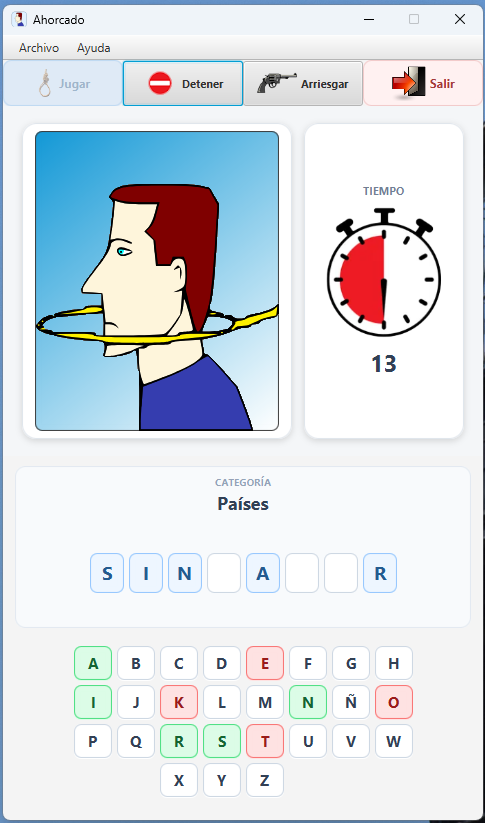
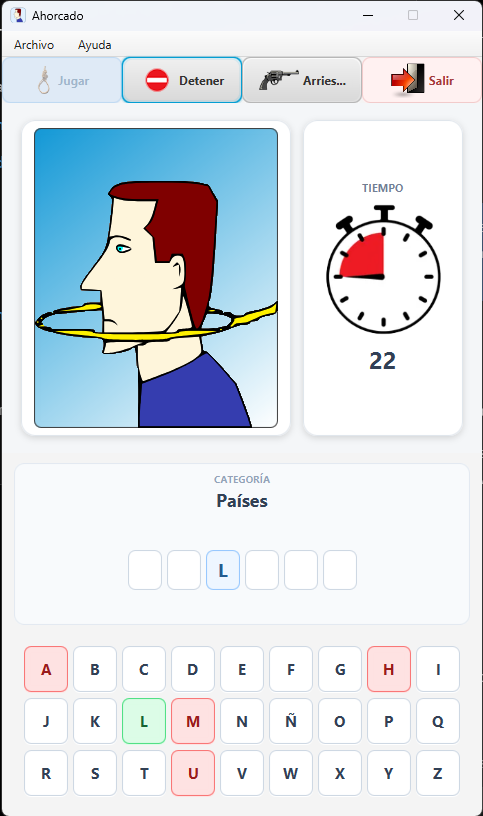
Actualización de github pages
Actualización de la página del producto

diff --git a/docs/index.html b/docs/index.html
@@ -3,7 +3,7 @@
 <head>
   <meta charset="utf-8">
   <meta name="viewport" content="width=device-width, initial-scale=1">
-  <meta name="description" content="Ahorcado 1.0.1: el clásico juego de palabras para Windows y Linux. Más de 500 palabras, cuatro categorías, tiempo configurable y funcionamiento offline.">
+  <meta name="description" content="Ahorcado: el clásico juego de palabras para Windows y Linux. Más de 500 palabras, cuatro categorías, tiempo configurable, interfaz adaptable y funcionamiento offline.">
   <meta name="theme-color" content="#0f172a">
   <title>Ahorcado — Juego para Windows y Linux</title>
   <link rel="icon" type="image/png" href="app-icon.png">
@@ -20,6 +20,7 @@
     <nav aria-label="Navegación principal">
       <a href="#caracteristicas">Características</a>
       <a href="#capturas">Capturas</a>
+      <a href="#instalacion">Instalación</a>
       <a href="#requisitos">Requisitos</a>
       <a id="nav-source" href="#" target="_blank" rel="noopener">Código</a>
     </nav>
@@ -28,13 +29,13 @@
   <main>
     <section class="hero" id="inicio">
       <div class="hero-copy">
-        <div class="eyebrow">VERSIÓN 1.0.1 · WINDOWS + LINUX</div>
+        <div class="eyebrow">WINDOWS + LINUX · VERSIÓN 1.0.1</div>
         <h1>El clásico Ahorcado,<br><span>renovado para escritorio.</span></h1>
 
         <p class="hero-lead">
-          Más de 500 palabras y nombres, cuatro categorías, tiempo configurable,
-          sonidos y animaciones. Todo en una aplicación simple que funciona
-          completamente offline.
+          Más de 500 palabras y nombres, cuatro categorías, partidas contra reloj,
+          sonidos y animaciones en una interfaz que se adapta automáticamente a tu pantalla.
+          Todo funciona completamente offline.
         </p>
 
         <div class="download-row" aria-label="Descargas">
@@ -60,7 +61,7 @@
         </p>
 
         <div class="hero-links">
-          <a id="release-link" href="#" target="_blank" rel="noopener">Ver Release v1.0.1</a>
+          <a id="release-link" href="#" target="_blank" rel="noopener">Ver versión publicada</a>
           <span aria-hidden="true">·</span>
           <a href="#instalacion">Cómo instalar</a>
         </div>
@@ -84,13 +85,17 @@
       <div><strong>500+</strong><span>palabras y nombres</span></div>
       <div><strong>4</strong><span>categorías</span></div>
       <div><strong>15–60 s</strong><span>tiempo configurable</span></div>
-      <div><strong>0</strong><span>conexión requerida</span></div>
+      <div><strong>HiDPI</strong><span>interfaz adaptable</span></div>
     </section>
 
     <section class="section" id="caracteristicas">
       <div class="section-heading">
         <span>CARACTERÍSTICAS</span>
         <h2>Simple para empezar.<br>Con detalles para seguir jugando.</h2>
+        <p>
+          Una versión de escritorio pensada para ser clara, rápida y cómoda tanto en pantallas
+          tradicionales como en equipos con escalado.
+        </p>
       </div>
 
       <div class="feature-grid">
@@ -129,6 +134,24 @@
           <h3>Preferencias persistentes</h3>
           <p>El juego recuerda tu categoría y tiempo elegidos para la próxima partida.</p>
         </article>
+
+        <article class="feature-card">
+          <div class="feature-symbol">↔</div>
+          <h3>Se adapta a tu pantalla</h3>
+          <p>La interfaz ajusta su tamaño automáticamente según el área disponible y el escalado del sistema.</p>
+        </article>
+
+        <article class="feature-card">
+          <div class="feature-symbol">◎</div>
+          <h3>Escalado dinámico</h3>
+          <p>Si cambiás la resolución o el escalado con el juego abierto, la ventana se reajusta automáticamente.</p>
+        </article>
+
+        <article class="feature-card">
+          <div class="feature-symbol">∞</div>
+          <h3>Completamente offline</h3>
+          <p>La base de palabras, los sonidos y todos los recursos están incluidos. No necesitás conexión para jugar.</p>
+        </article>
       </div>
     </section>
 
@@ -136,7 +159,7 @@
       <div class="section-heading">
         <span>CAPTURAS</span>
         <h2>Así se ve Ahorcado.</h2>
-        <p>Una interfaz compacta y clara, pensada para jugar sin distracciones.</p>
+        <p>Una interfaz compacta, clara y pensada para jugar sin distracciones.</p>
       </div>
 
       <div class="screenshots">
@@ -160,6 +183,7 @@
       <div class="section-heading">
         <span>INSTALACIÓN</span>
         <h2>Descargá y jugá.</h2>
+        <p>Los instaladores incluyen su propio runtime. No necesitás instalar Java por separado.</p>
       </div>
 
       <div class="install-grid">
@@ -228,7 +252,7 @@
         </div>
         <div>
           <h3>Pantalla</h3>
-          <p>La interfaz se adapta automáticamente al área útil de pantalla y al escalado configurado en el sistema operativo.</p>
+          <p>La interfaz se adapta automáticamente al área útil y al escalado configurado en el sistema operativo.</p>
         </div>
         <div>
           <h3>Java</h3>
@@ -257,7 +281,7 @@
       <span>Copyright © 1996–2026 Mario Borelli</span>
     </div>
     <div class="footer-links">
-      <a id="footer-release" href="#" target="_blank" rel="noopener">Release v1.0.1</a>
+      <a id="footer-release" href="#" target="_blank" rel="noopener">Versión publicada</a>
       <a id="footer-source" href="#" target="_blank" rel="noopener">Código fuente</a>
     </div>
   </footer>

diff --git a/docs/site.js b/docs/site.js
@@ -7,16 +7,12 @@
     const host = window.location.hostname.toLowerCase();
     const parts = window.location.pathname.split("/").filter(Boolean);
 
-    // GitHub Pages de proyecto:
-    // https://usuario.github.io/repositorio/
     if (host.endsWith(".github.io")) {
       const owner = host.split(".")[0];
       const repo = parts.length ? parts[0] : `${owner}.github.io`;
       return { owner, repo };
     }
 
-    // Permite una vista local sin romper los enlaces.
-    // Si alguna vez se usa un dominio personalizado, completar aquí:
     return {
       owner: "TU_USUARIO",
       repo: "TU_REPOSITORIO"
@@ -44,8 +40,6 @@
     if (element) element.href = url;
   });
 
-  // En vista local los botones siguen visibles, pero avisa que los enlaces
-  // se completarán automáticamente cuando la página esté publicada.
   if (owner === "TU_USUARIO") {
     document.querySelectorAll('[id^="download-"]').forEach(el => {
       el.addEventListener("click", event => {
